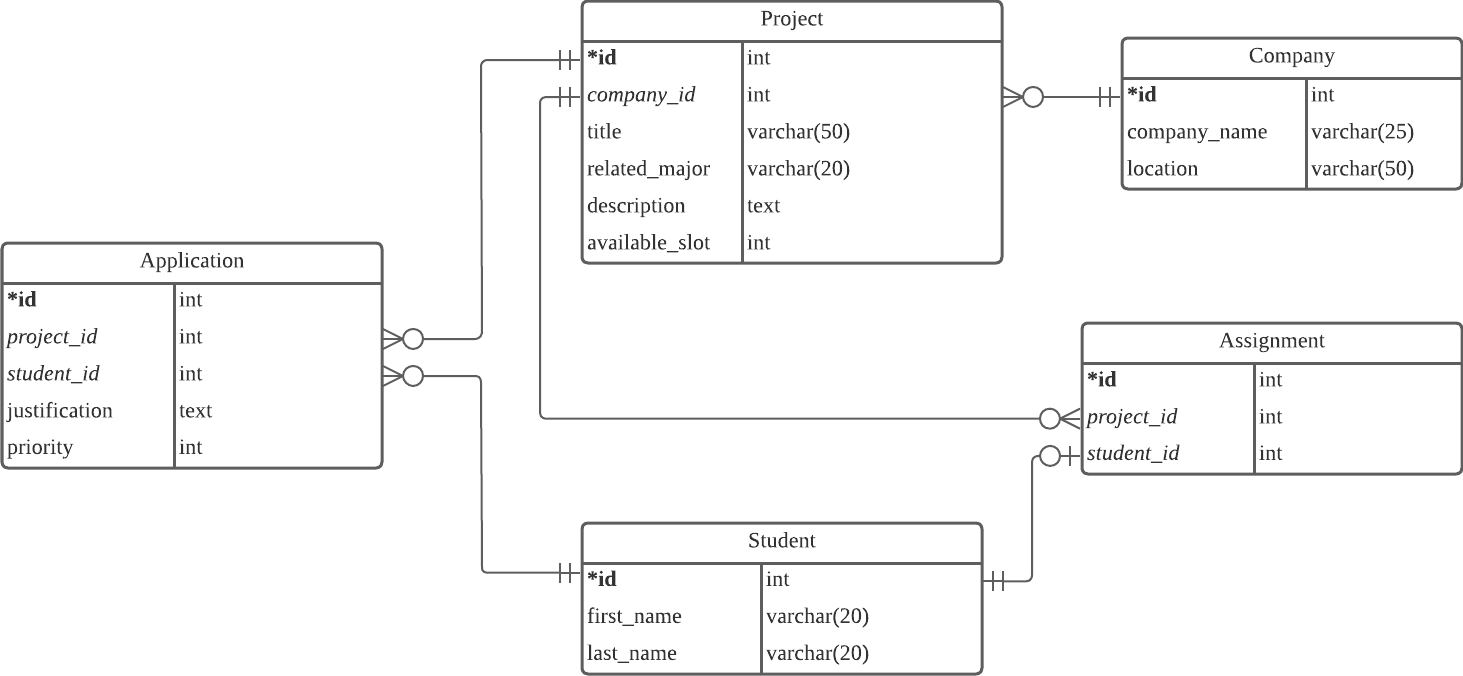
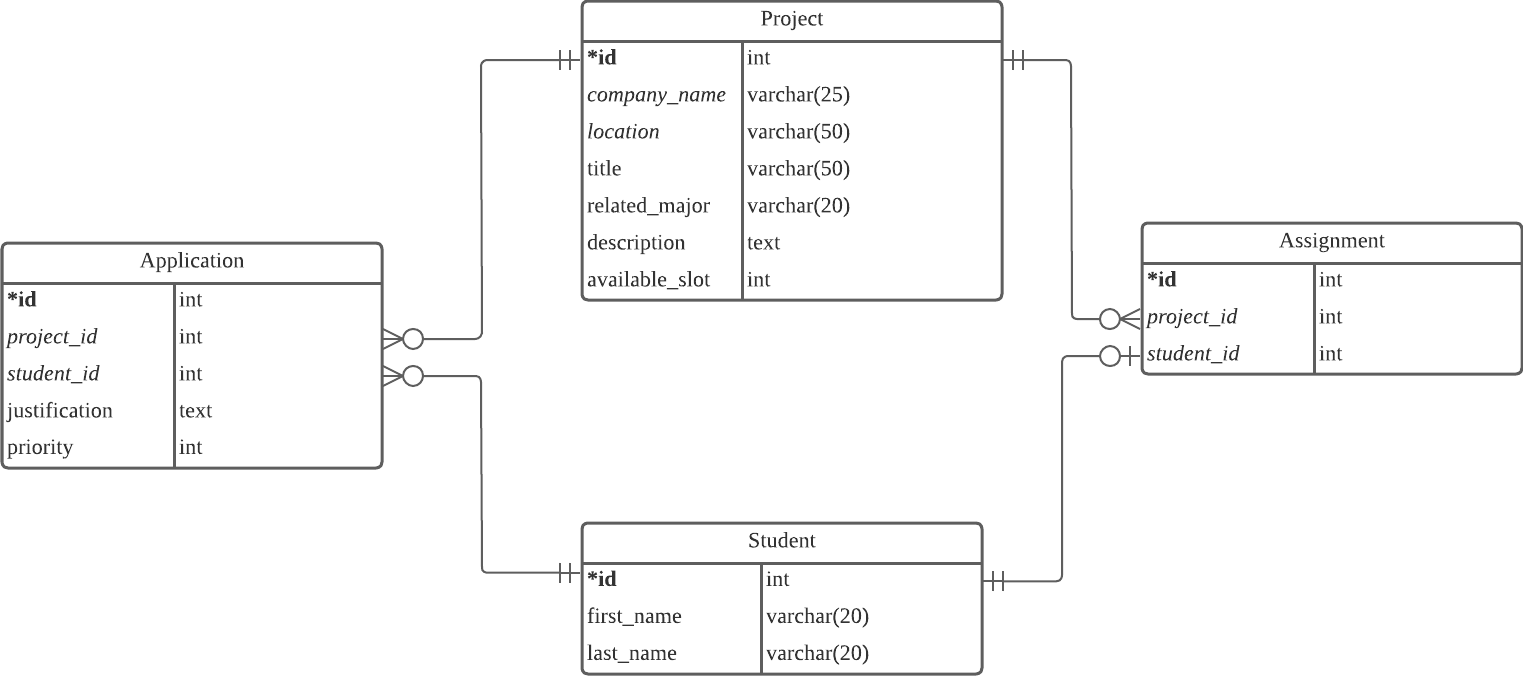
update: delete company table

diff --git a/webAppDev/assignment/assignment1/public/js/datatable.js b/webAppDev/assignment/assignment1/public/js/datatable.js
@@ -4,6 +4,7 @@ $(document).ready(function() {
     ordering: false,
     searching: false,
     lengthChange: false,
+    paging: false,
   });
 
   $(".row-clickable").click(function() {

diff --git a/webAppDev/assignment/assignment1/routes/web.php b/webAppDev/assignment/assignment1/routes/web.php
@@ -3,11 +3,9 @@
 use wp\Project;
 use wp\Student;
 use wp\Application;
-use wp\Company;
 use wp\Assignment;
 require 'services/project.php';
 require 'services/student.php';
-require 'services/company.php';
 require 'services/application.php';
 require 'services/assignment.php';
 
@@ -67,19 +65,18 @@ Route::get('/', function () {
  * */
 /** Get create project page */
 Route::get('project/advertise', function () {
-  /** Get stored companyId in the session cache */
-  $storedCompanyId = request() -> session() -> get('companyId');
-  $company = array();
+  /** Get stored projectId in the session cache */
+  $storedProjectId = request() -> session() -> get('projectId');
   $project = array();
 
-  /** retreive the company detail if there is a cached companyId */
-  if (!empty($storedCompanyId)) {
-    $companyServices = new Company();
-    $existingCompany = $companyServices -> get_company($storedCompanyId);
-    $company['company_name'] = $existingCompany -> company_name;
-    $company['location'] = $existingCompany -> location;
+  /** retreive the company detail if there is a cached projectId */
+  if (!empty($storedProjectId)) {
+    $projectServices = new Project();
+    $existingProject = $projectServices -> get_project($storedProjectId);
+    $project['company_name'] = $existingProject -> company_name;
+    $project['location'] = $existingProject -> location;
   }
-  return view('project/advertise') -> with('company', $company) -> with('project', $project) -> with('error', array());
+  return view('project/advertise') -> with('project', $project) -> with('error', array());
 });
 
 /** Create new project */
@@ -94,32 +91,23 @@ Route::post('project/advertise', function () {
   /** Server side form validation */
   $errors = formValidation();
   if (count($errors) > 0) {
-    $company['company_name'] = $name;
-    $company['location'] = $location;
+    $project['company_name'] = $name;
+    $project['location'] = $location;
     $project['title'] = $title;
     $project['relatedMajor'] = $relatedMajor;
     $project['description'] = $description;
     $project['availableSlot'] = $availableSlot;
-    return view('project/advertise') -> with('company', $company) -> with('project', $project) -> withErrors($errors);
+    return view('project/advertise') -> with('project', $project) -> withErrors($errors);
   }
 
-  $companyServices = new Company();
   $projectServices = new Project();
 
-  // Check if company exists or create a new one
-  $company = $companyServices -> find_company($name);
-  if (is_null($company)) {
-    $companyId = $companyServices -> add_company($name, $location);
-  } else {
-    $companyId = $company -> id;
-  }
-
   /** Add a new project */
-  $projectId = $projectServices -> add_project($companyId, $location, $title, $relatedMajor, $description, $availableSlot);
+  $projectId = $projectServices -> add_project($name, $location, $title, $relatedMajor, $description, $availableSlot);
   
   // If successfully created then display newly created project 
   if ($projectId) {
-    request() -> session()-> put('companyId', $companyId);
+    request() -> session()-> put('projectId', $projectId);
     return redirect("project/$projectId");
   } else {
     die('Error adding new project');
@@ -312,9 +300,9 @@ Route::get('application/{applicationId}', function () {
  * Company Routes 
  * */
 Route::get('companies', function () {
-  $companyServices = new Company();
+  $projectServices = new Project();
 
-  $companyAppRank = $companyServices -> get_company_project_ranks();
+  $companyAppRank = $projectServices -> get_company_project_ranks();
   return view('company/list') -> with('companies', $companyAppRank);
 });
 

diff --git a/webAppDev/assignment/assignment1/routes/services/project.php b/webAppDev/assignment/assignment1/routes/services/project.php
@@ -7,16 +7,15 @@ class Project {
 
   /* Gets all projects */
   function get_projects() {
-    $sql = "SELECT P.id, P.title, C.company_name, P.available_slot, (SELECT COUNT(*) FROM Application AS A WHERE A.project_id = P.id) AS 'application_no'
-            FROM Project AS P, Company AS C
-            WHERE P.company_id = C.id";
+    $sql = "SELECT P.id, P.title, P.company_name, P.available_slot, (SELECT COUNT(*) FROM Application AS A WHERE A.project_id = P.id) AS 'application_no'
+            FROM Project AS P";
     $items = DB::select($sql);
     return $items;
   }
 
   /* Get project with the given id */
   function get_project($id) {
-    $sql = "SELECT * FROM Project AS P, Company AS C WHERE P.company_id = C.id and P.id = ?";
+    $sql = "SELECT * FROM Project AS P WHERE P.id = ?";
     $items = DB::select($sql, array($id));
     // If we get more than one item or no items display an error
     if (count($items) != 1) {
@@ -28,9 +27,9 @@ class Project {
   }
 
   /* Create new project */
-  function add_project($companyId, $location, $title, $relatedMajor, $description, $availableSlot) {
-    $sql = "INSERT INTO Project (company_id, title, related_major, description, available_slot) VALUES (?, ?, ?, ?, ?)";
-    DB::insert($sql, array($companyId, $title, $relatedMajor, $description, $availableSlot));
+  function add_project($companyName, $location, $title, $relatedMajor, $description, $availableSlot) {
+    $sql = "INSERT INTO Project (company_name, location, title, related_major, description, available_slot) VALUES (?, ?, ?, ?, ?, ?)";
+    DB::insert($sql, array($companyName, $location, $title, $relatedMajor, $description, $availableSlot));
     $id = DB::getPdo()->lastInsertId();
     return $id;
   }
@@ -69,6 +68,33 @@ class Project {
   function get_project_assignments($id) {
     $sql = "SELECT * FROM Project AS P, Assignment AS A WHERE A.project_id = P.id and P.id = ?;";
     $items = DB::select($sql, array($id));
+    return $items;
+  }
+
+  /* Find company with company_name */
+  function find_company($company_name) {
+    $sql = "SELECT * FROM Project AS P WHERE P.company_name LIKE ?";
+    $items = DB::select($sql, array(trim($company_name)));
+    $itemLen = count($items);
+    // If we get more than one item or no items display an error
+    if ($itemLen > 1) {
+      die("Invalid query or result: $sql\n");
+    } elseif ($itemLen == 0) {
+      return NULL;
+    } else {
+      // Extract the first item (which should be the only item)
+      $item = $items[0];
+      return $item;
+    }
+  }
+
+  /* Gets all projects */
+  function get_company_project_ranks() {
+    $sql = "SELECT COUNT(*) AS 'project_no', P.id, P.company_name
+            FROM Project AS P
+            GROUP BY P.company_name
+            ORDER BY project_no DESC";
+    $items = DB::select($sql);
     return $items;
   }
 }

diff --git a/webAppDev/assignment/assignment1/resources/views/project/advertise.blade.php b/webAppDev/assignment/assignment1/resources/views/project/advertise.blade.php
@@ -9,14 +9,14 @@
     {{ csrf_field() }}
     <div class="form-group">
       <label for="companyName">Company Name</label>
-      <input type="text" name="companyName" value="{{ !empty($company['company_name']) ? $company["company_name"] : '' }}" class="form-control {{$errors->has('companyName') ? 'is-invalid' : ''}}" placeholder="Company Name">
+      <input type="text" name="companyName" value="{{ !empty($project['company_name']) ? $project["company_name"] : '' }}" class="form-control {{$errors->has('companyName') ? 'is-invalid' : ''}}" placeholder="Company Name">
       @if($errors->has('companyName'))
         <div class="invalid-feedback">{{ $errors->first('companyName') }}</div>
       @endif
     </div>
     <div class="form-group">
       <label for="location">Company Location</label>
-      <input type="text" name="location" value="{{ !empty($company['location']) ? $company["location"] : '' }}" class="form-control {{$errors->has('location') ? 'is-invalid' : ''}}" placeholder="Location">
+      <input type="text" name="location" value="{{ !empty($project['location']) ? $project["location"] : '' }}" class="form-control {{$errors->has('location') ? 'is-invalid' : ''}}" placeholder="Location">
       @if($errors->has('location'))
         <div class="invalid-feedback">{{ $errors->first('location') }}</div>
       @endif

diff --git a/webAppDev/assignment/assignment1/resources/views/project/edit.blade.php b/webAppDev/assignment/assignment1/resources/views/project/edit.blade.php
@@ -9,12 +9,12 @@
     {{ csrf_field() }}
     <div class="form-group">
       <label for="companyName">Company Name</label>
-      <input value="{{ $project -> company_name }}" disabled type="text" name="companyName" placeholder="Company Name">
+      <input value="{{ $project -> company_name }}" disabled type="text" class="form-control" name="companyName" placeholder="Company Name">
       <input value="{{ $project -> company_name }}" hidden type="text" name="companyName" placeholder="Company Name">
     </div>
     <div class="form-group">
       <label for="location">Company Location</label>
-      <input value="{{ $project -> location }}" disabled type="text" name="location" placeholder="Location">
+      <input value="{{ $project -> location }}" disabled type="text" class="form-control" name="location" placeholder="Location">
       <input value="{{ $project -> location }}" hidden type="text" name="location" placeholder="Location">
     </div>
     <div class="form-group">

diff --git a/webAppDev/assignment/assignment1/resources/views/company/list.blade.php b/webAppDev/assignment/assignment1/resources/views/company/list.blade.php
@@ -16,7 +16,6 @@
           <thead>
             <tr>
               <th>Rank</th>
-              <th>ID</th>
               <th>Company</th>
               <th>Total Projects</th>
             </tr>
@@ -25,13 +24,12 @@
             @forelse($companies as $company)
               <tr>
                 <td>{{ $loop -> index + 1 }}</td>
-                <td>{{ $company -> id }}</td>
                 <td>{{ $company -> company_name }}</td>
                 <td>{{ $company -> project_no }}</td>
               </tr>
             @empty
               <tr>
-                <td colspan=4>
+                <td colspan=3>
                   No results found.
                 </td>
               </tr>

diff --git a/webAppDev/assignment/assignment1/routes/services/application.php b/webAppDev/assignment/assignment1/routes/services/application.php
@@ -15,7 +15,7 @@ class Application {
 
   /* Get application with the given id */
   function get_application_detail($id) {
-    $sql = "SELECT * FROM Application AS A, Student AS S, Project AS P, Company AS C WHERE P.company_id = C.id AND P.id = A.project_id AND S.id = A.student_id AND A.id = ?";
+    $sql = "SELECT * FROM Application AS A, Student AS S, Project AS P WHERE P.id = A.project_id AND S.id = A.student_id AND A.id = ?";
     $items = DB::select($sql, array($id));
     // If we get more than one item or no items display an error
     if (count($items) != 1) {

diff --git a/webAppDev/assignment/assignment1/routes/services/student.php b/webAppDev/assignment/assignment1/routes/services/student.php
@@ -32,7 +32,7 @@ class Student {
 
   /* Get all applications of specified student */
   function get_student_applications($studetnId) {
-    $sql = "SELECT * FROM Application AS A, Student AS S, Project AS P, Company AS C WHERE A.student_id = S.id AND A.project_id = P.id AND P.company_id = C.id AND S.id = ? ORDER BY A.priority ASC";
+    $sql = "SELECT * FROM Application AS A, Student AS S, Project AS P WHERE A.student_id = S.id AND A.project_id = P.id AND S.id = ? ORDER BY A.priority ASC";
     $items = DB::select($sql, array($studetnId));
     return $items;
   }

diff --git a/webAppDev/assignment/assignment1/resources/views/document/detail.blade.php b/webAppDev/assignment/assignment1/resources/views/document/detail.blade.php
@@ -10,7 +10,7 @@
     <div class="p-4 mb-4">
       <img src="{{asset('img/ERD.png')}}" class="w-75 mb-4" alt="ERD" />
       <p>
-        My ERD consists of 5 tables including Project, Application, Assignment, Student and Company. In the beginning, company table is extracted out into an independent table to cope with companies reside in different location with the same name. But it turns out company name is unique in this project.
+        My ERD consists of 4 tables including Project, Application, Assignment and Student.
       </p>
     </div>
   </div>
